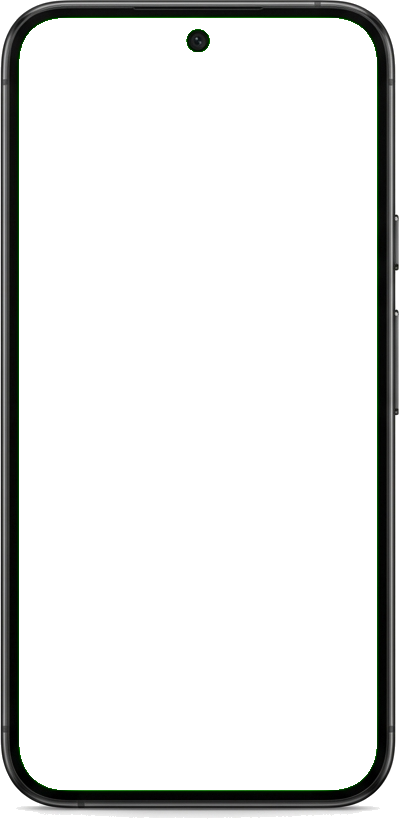
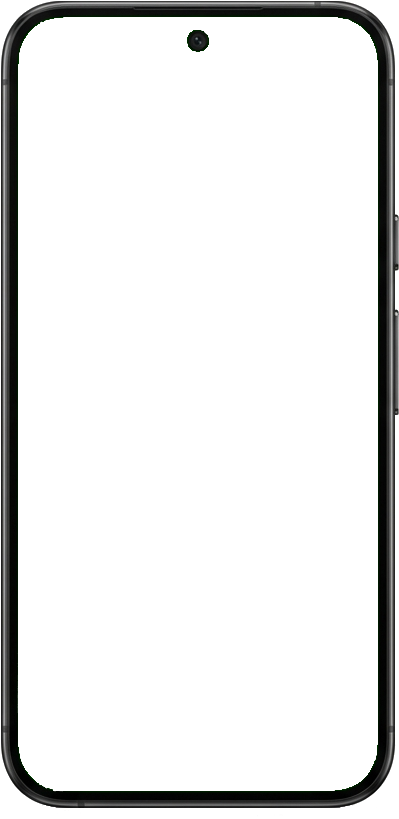
fix(mockup): regenerate orthogonal flat front-facing iPhone mockup asset

Changed region(s): [[0.0602, 0.9768, 0.9323, 1.0], [0.0301, 0.8242, 0.0602, 0.8852]]

diff --git a/src/components/MockupEditor/DeviceFrame.tsx b/src/components/MockupEditor/DeviceFrame.tsx
@@ -163,7 +163,7 @@ export const DeviceFrame: React.FC<DeviceFrameProps> = ({
     switch (deviceType) {
       case 'iphone16pro':
       case 'iphone15pro':
-        return { top: '2.5%', left: '3.6%', width: '92.8%', height: '95.0%', cornerRadius: 38 };
+        return { top: '2.4%', left: '3.6%', width: '92.8%', height: '95.2%', cornerRadius: 42 };
       case 'samsung-s25ultra':
       case 'samsung-s24':
         return { top: '1.6%', left: '2.4%', width: '95.2%', height: '96.8%', cornerRadius: 12 };
@@ -173,7 +173,7 @@ export const DeviceFrame: React.FC<DeviceFrameProps> = ({
       case 'ipadpro':
         return { top: '3.2%', left: '4.0%', width: '91.8%', height: '93.6%', cornerRadius: 20 };
       default:
-        return { top: '2.5%', left: '3.6%', width: '92.8%', height: '95.0%', cornerRadius: 38 };
+        return { top: '2.4%', left: '3.6%', width: '92.8%', height: '95.2%', cornerRadius: 42 };
     }
   };
 
@@ -214,7 +214,7 @@ export const DeviceFrame: React.FC<DeviceFrameProps> = ({
         {renderScreenContent(specs.cornerRadius)}
       </div>
 
-      {/* LAYER 2: 100% REAL PHOTOREALISTIC TRANSPARENT DEVICE FRAME OVERLAY */}
+      {/* LAYER 2: 100% REAL PHOTOREALISTIC TRANSPARENT FLAT FRONT-FACING DEVICE OVERLAY */}
       <img
         src={assetPath}
         alt={modelInfo.name}
